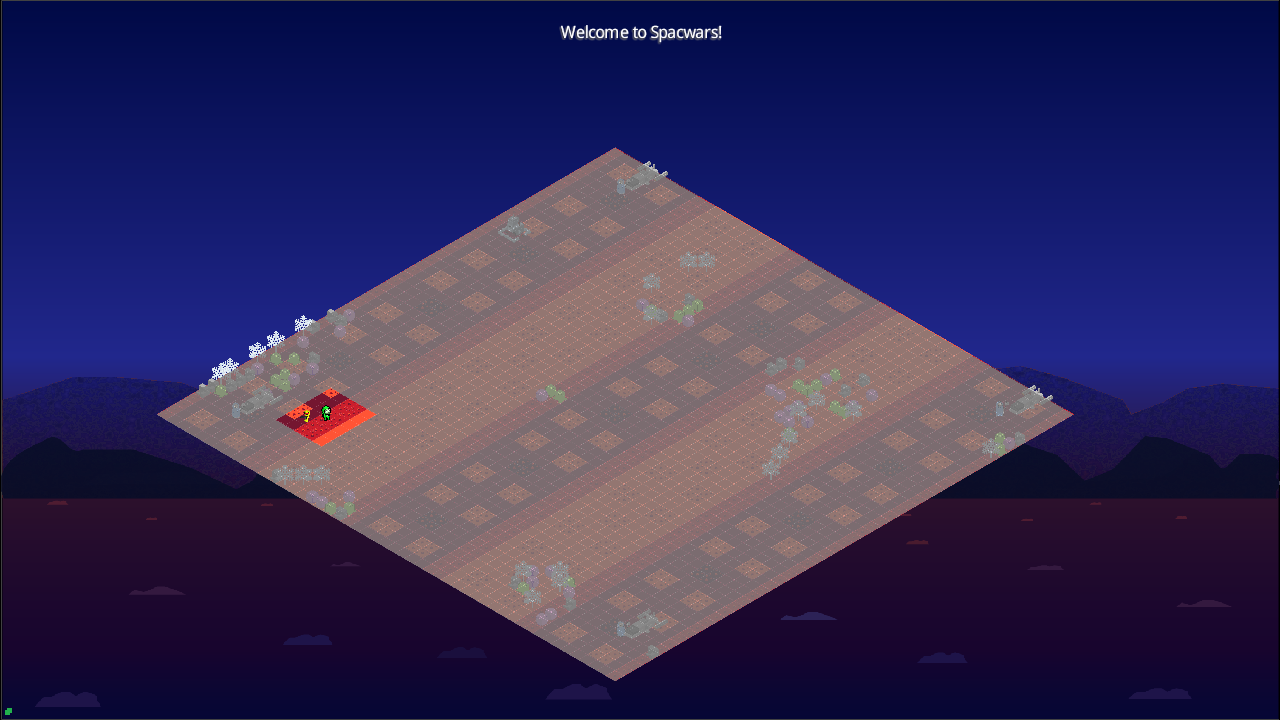
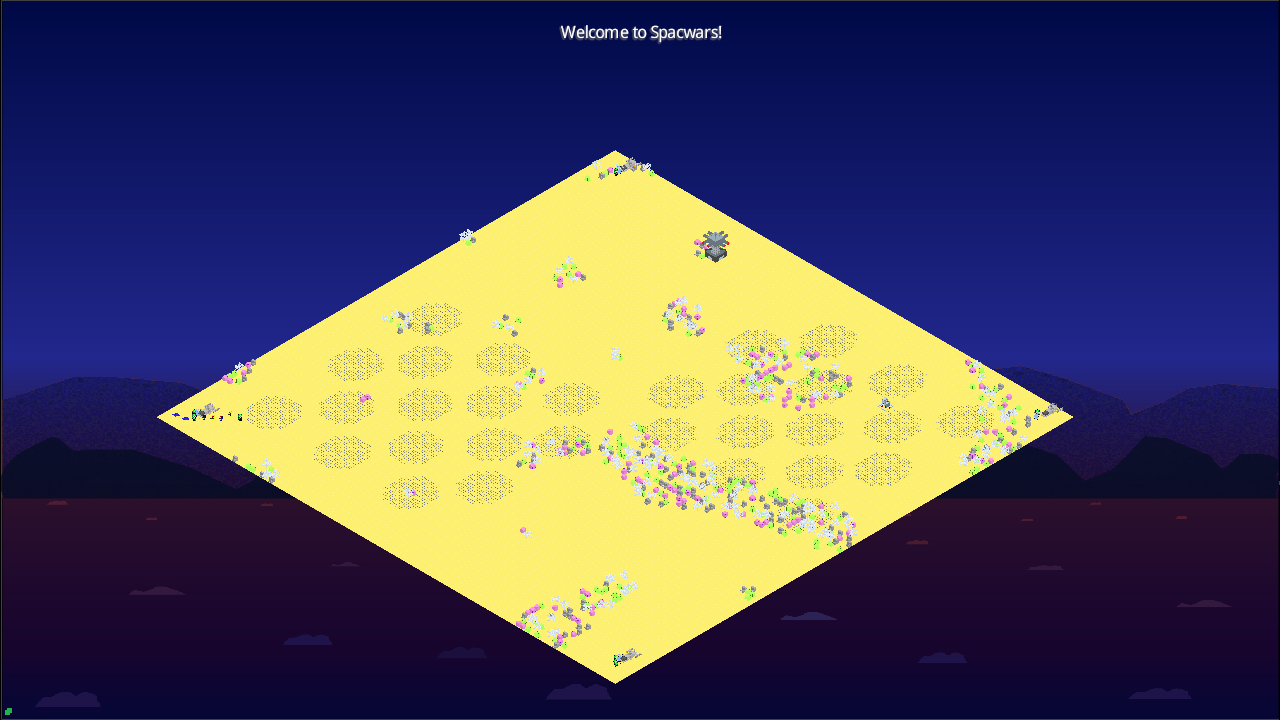
Fog Of War is now fully functional. This ticket is done

Changed region(s): [[0.125, 0.2139, 0.8438, 0.9472]]

diff --git a/marswars/src/main/java/com/deco2800/marswars/renderers/Render3D.java b/marswars/src/main/java/com/deco2800/marswars/renderers/Render3D.java
@@ -8,9 +8,7 @@ import com.badlogic.gdx.graphics.g2d.SpriteBatch;
 import com.badlogic.gdx.maps.tiled.renderers.BatchTiledMapRenderer;
 import com.badlogic.gdx.maps.tiled.renderers.IsometricTiledMapRenderer;
 import com.badlogic.gdx.math.Vector3;
-import com.deco2800.marswars.entities.BaseEntity;
-import com.deco2800.marswars.entities.FogOfWarLayer;
-import com.deco2800.marswars.entities.Selectable;
+import com.deco2800.marswars.entities.*;
 import com.deco2800.marswars.managers.FogOfWarManager;
 import com.deco2800.marswars.managers.GameManager;
 import com.deco2800.marswars.managers.TextureManager;
@@ -50,6 +48,7 @@ public class Render3D implements Renderer {
         List<BaseEntity> walkables = new ArrayList<>();
 
         List<FogOfWarLayer> fogs = FogWorld.getFogMap();
+        List<FogOfWarLayer> blackFogs = FogWorld.getBlackFogMap();
 
         /* Sort entities into walkables and entities */
         for (BaseEntity r : renderables) {
@@ -62,9 +61,13 @@ public class Render3D implements Renderer {
 
         batch.begin();
 
-        renderEntities(walkables, batch, camera);
-        renderEntities(entities, batch, camera);
+        renderEntities(walkables, batch, camera,0);
+        renderEntities(entities, batch, camera,0);
+
         renderFog(fogs,batch,camera);
+        renderFog(blackFogs,batch,camera);
+        renderEntities(walkables, batch, camera,1);
+
         batch.end();
 
     }
@@ -91,6 +94,7 @@ public class Render3D implements Renderer {
 
     public void renderFog(List<FogOfWarLayer>entities, SpriteBatch batch, Camera camera) {
         if (FogOfWarManager.getToggleFog()) {
+
             Collections.sort(entities);
             if (font == null) {
                 font = new BitmapFont();
@@ -111,8 +115,12 @@ public class Render3D implements Renderer {
 
                 Renderable entity = entities.get(index);
 
+                //this function is for the blackFog to omit the tiles that are revealed
+                if(entity instanceof BlackTile)
+                    if (FogOfWarManager.getBlackFog((int) entity.getPosX(), (int) entity.getPosY()) == 1) continue;
                 //omit the tiles that are in sight
                 //TODO: leave the green selection to be rendered
+                if(entity instanceof GrayTile)
                     if (FogOfWarManager.getFog((int) entity.getPosX(), (int) entity.getPosY()) == 2) continue;
 
 
@@ -151,7 +159,7 @@ public class Render3D implements Renderer {
 
      */
 
-    private void renderEntities(List<BaseEntity> entities, SpriteBatch batch, Camera camera) {
+    private void renderEntities(List<BaseEntity> entities, SpriteBatch batch, Camera camera,int iteration) {
 
         Collections.sort(entities);
         if (font == null) {
@@ -172,6 +180,7 @@ public class Render3D implements Renderer {
         for (int index = 0; index < entities.size(); index++) {
 
             Renderable entity = entities.get(index);
+            if(iteration==1 && !(entity instanceof CheckSelect)) continue;
 
             //fog of war part of the game
             if(FogOfWarManager.getToggleFog()) {

diff --git a/marswars/src/main/java/com/deco2800/marswars/managers/FogOfWarManager.java b/marswars/src/main/java/com/deco2800/marswars/managers/FogOfWarManager.java
@@ -13,12 +13,17 @@ import com.deco2800.marswars.util.Array2D;
  */
 public class FogOfWarManager extends Manager {
 	private static Array2D<Integer> fogOfWar;
+	private static Array2D<Integer> blackFogOfWar;
 	private int maxWidth;
 	private int maxLength;
-	private static boolean activatedFog = true;
+	private static boolean activatedFog = false;
 
 	public static Array2D<Integer> getFogOfWar(){
 		return fogOfWar;
+	}
+
+	public static Array2D<Integer> getBlackFogOfWar(){
+		return blackFogOfWar;
 	}
 
 	/**
@@ -30,9 +35,11 @@ public class FogOfWarManager extends Manager {
 	 */
 	public void initialFog(int width, int length) {
 		this.fogOfWar = new Array2D<Integer>(width, length);
+		this.blackFogOfWar  = new Array2D<Integer>(width, length);
 		for (int i = 0; i < width; i++) {
 			for (int j = 0; j < length; j++) {
 				fogOfWar.set(i, j, 0);
+				blackFogOfWar.set(i,j,0);
 			}
 		}
 
@@ -67,6 +74,10 @@ public class FogOfWarManager extends Manager {
 		return fogOfWar.get(x, y);
 	}
 
+	public static int getBlackFog(int x, int y) {
+		return blackFogOfWar.get(x, y);
+	}
+
 	/**
 	 * Updates the fogOfWar based on the sight range of an entity.
 	 *
@@ -82,9 +93,11 @@ public class FogOfWarManager extends Manager {
 					for(int j=0;j<=maxRange;j++) {//for each column
 						if( x+j < w && y+i < l && y+i>=0){//to the right
 							fogOfWar.set(x+j,y+i,2);
+							blackFogOfWar.set(x+j,y+i,1);//reveal a tile
 						}
 						if( x-j >= 0 && y+i < l && y+i>=0){//to the right
 							fogOfWar.set(x-j,y+i,2);
+							blackFogOfWar.set(x-j,y+i,1);//reveal a tile
 						}
 					}
 
@@ -95,6 +108,7 @@ public class FogOfWarManager extends Manager {
 					for(int j=0;j<=maxRange;j++) {//for each column
 						if( x+j < w && y+i < l && y+i>=0){//to the right
 							fogOfWar.set(x+j,y+i,0);
+
 						}
 						if( x-j >= 0  && y+i < l && y+i>=0){//to the right
 							fogOfWar.set(x-j,y+i,0);

diff --git a/marswars/src/main/java/com/deco2800/marswars/worlds/FogWorld.java b/marswars/src/main/java/com/deco2800/marswars/worlds/FogWorld.java
@@ -1,5 +1,6 @@
 package com.deco2800.marswars.worlds;
 
+import com.deco2800.marswars.entities.BlackTile;
 import com.deco2800.marswars.entities.FogOfWarLayer;
 import com.deco2800.marswars.entities.GrayTile;
 
@@ -13,15 +14,21 @@ public class FogWorld {
 
 
     protected static ArrayList<FogOfWarLayer> fogMap = new ArrayList<FogOfWarLayer>();
+    protected static ArrayList<FogOfWarLayer> blackFogMap = new ArrayList<FogOfWarLayer>();
 
     public static List<FogOfWarLayer> getFogMap() {
         return fogMap;
     }
 
+    public static List<FogOfWarLayer> getBlackFogMap() {
+        return blackFogMap;
+    }
+
     public FogWorld(int width, int length){
         for (int x = 0; x < width; x++) {
             for (int y = 0; y < length; y++) {
-                addEntity(new GrayTile(x,y,1,1f,1f));
+                addEntity(new GrayTile(x,y,1,1f,1f),fogMap);
+                addEntity(new BlackTile(x,y,1,1f,1f),blackFogMap);
             }
         }
     }
@@ -43,7 +50,7 @@ public class FogWorld {
      * add FogOfWarLayer entity to the fog world
      * @param entity
      */
-    public void addEntity(FogOfWarLayer entity) {
+    public void addEntity(FogOfWarLayer entity,ArrayList<FogOfWarLayer> fogMap) {
         //Add to the fog map
         int left = (int)entity.getPosX();
         int right = (int)Math.ceil(entity.getPosX() + entity.getXLength());
